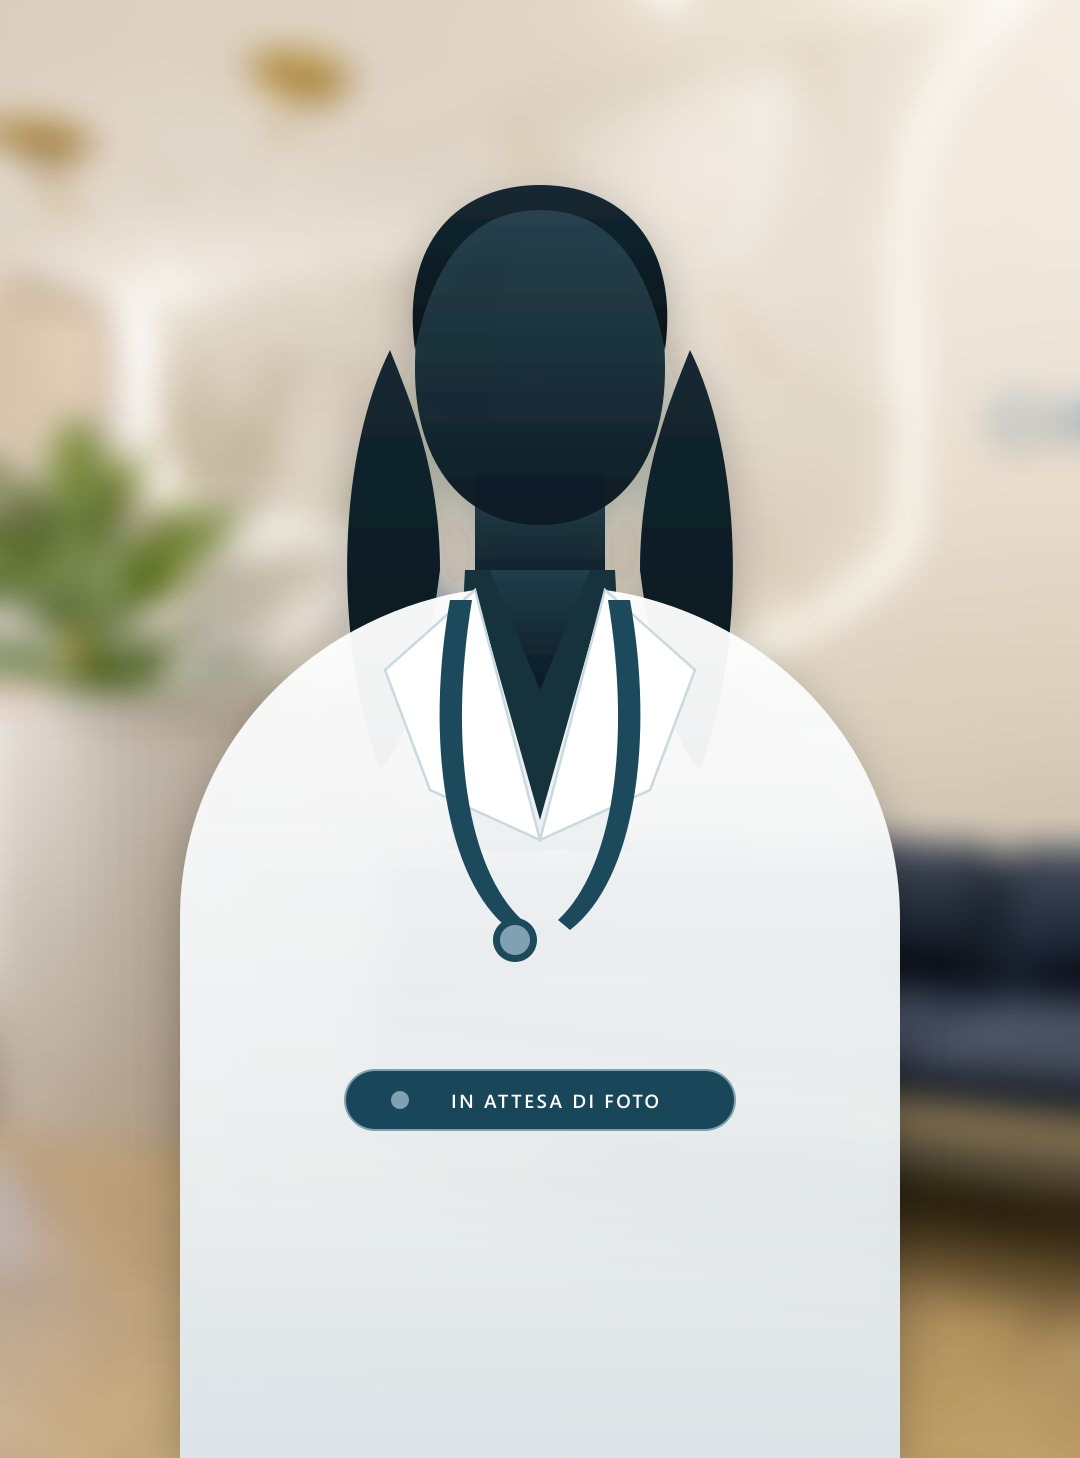
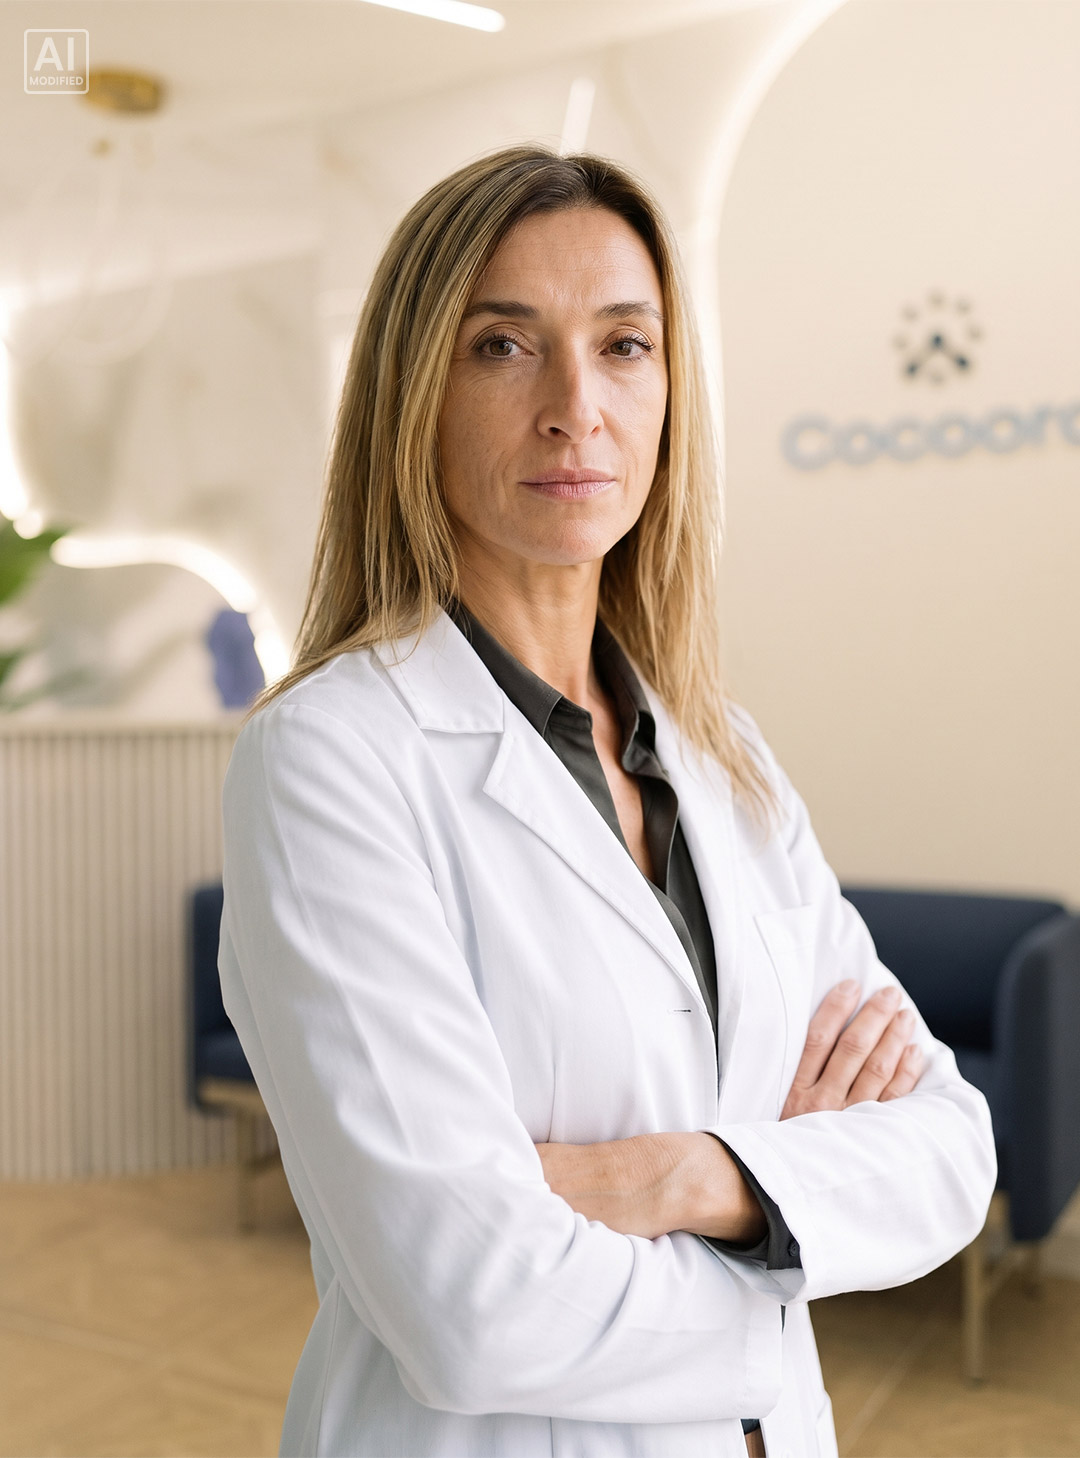
feat: allineamento anagrafica medici file Simone, inserimento dermatologa Mirella D'Andrea, correzione foto Totaro e reindirizzamento Prenota Visita a Discover

diff --git a/src/lib/doctors.ts b/src/lib/doctors.ts
@@ -3,18 +3,19 @@ import type { Doctor } from "./types";
 // ─────────────────────────────────────────────────────────────────────────
 // Database Specialisti Cocoora Centro Medico.
 // Organico ufficiale desunto dal calendario clinico (Novembre 2026).
+// Nomenclatura ufficiale: nomi senza prefissi Dr./Dott.ssa e titoli per esteso.
 // ─────────────────────────────────────────────────────────────────────────
 
 export const DOCTORS: Doctor[] = [
   {
     slug: "elisa-russo",
-    name: "Dott.ssa Elisa Russo",
-    title: "Direttrice Sanitaria · Specialista in Ortognatodonzia e Odontoiatria Pediatrica",
+    name: "Elisa Russo",
+    title: "Odontoiatra, Specialista in Ortognatodonzia · Direttrice Sanitaria",
     branca: "Odontoiatria & Ortodonzia Digitale",
     affiliation: "Direttrice Sanitaria — Cocoora Centro Medico",
     badge: "Direzione Sanitaria",
     image: "/images/doctors/elisa-russo.jpg",
-    bio: "La Dott.ssa Elisa Russo guida la direzione sanitaria del centro con una visione incentrata sulla prevenzione precoce, sull'ortodonzia digitale con allineatori trasparenti e sul benessere odontoiatrico completo di adulti e bambini.",
+    bio: "Elisa Russo guida la direzione sanitaria del centro con una visione incentrata sulla prevenzione precoce, sull'ortodonzia digitale con allineatori trasparenti e sul benessere odontoiatrico completo di adulti e bambini.",
     approach:
       "La salute del cavo orale è il primo presidio di salute sistemica: pianifichiamo ogni percorso con diagnosi digitale 3D, garantendo trattamenti confortevoli, predicibili e senza sorprese.",
     curriculum: [
@@ -41,12 +42,12 @@ export const DOCTORS: Doctor[] = [
   },
   {
     slug: "raffaele-dalessio",
-    name: "Dr. Raffaele D'Alessio",
-    title: "Chirurgo Orale e Implantologo",
+    name: "Raffaele D'Alessio",
+    title: "Odontoiatria, Chirurgia e Implantologia",
     branca: "Odontoiatria & Ortodonzia Digitale",
     affiliation: "Specialista in Chirurgia Orale e Implantologia Guidata",
     image: "/images/doctors/raffaele-dalessio.jpg",
-    bio: "Il Dr. D'Alessio è chirurgo orale dedicato alla riabilitazione complessa, all'implantologia computer-guidata a carico immediato e alla chirurgia ossea piezoelettrica mininvasiva.",
+    bio: "Raffaele D'Alessio è chirurgo orale dedicato alla riabilitazione complessa, all'implantologia computer-guidata a carico immediato e alla chirurgia ossea piezoelettrica mininvasiva.",
     approach:
       "Precisione millimetrica e massimo comfort: la chirurgia guidata 3D permette di ripristinare funzionalità ed estetica con tempi di guarigione minimi.",
     curriculum: [
@@ -65,12 +66,12 @@ export const DOCTORS: Doctor[] = [
   },
   {
     slug: "alessandra-riccardi",
-    name: "Dott.ssa Alessandra Riccardi",
-    title: "Medico Estetico e Rigenerativo",
+    name: "Alessandra Riccardi",
+    title: "Medico Chirurgo – Medicina Estetica",
     branca: "Medicina Estetica Avanzata",
     affiliation: "Specialista in Medicina Rigenerativa e Trattamenti Laser",
     image: "/images/doctors/alessandra-riccardi.jpg",
-    bio: "La Dott.ssa Alessandra Riccardi unisce la medicina estetica alla biostimolazione rigenerativa, focalizzandosi su trattamenti viso e corpo che esaltano l'armonia naturale senza alterare l'espressività.",
+    bio: "Alessandra Riccardi unisce la medicina estetica alla biostimolazione rigenerativa, focalizzandosi su trattamenti viso e corpo che esaltano l'armonia naturale senza alterare l'espressività.",
     approach:
       "La medicina estetica d'eccellenza non stravolge: rigenera la qualità biologica dei tessuti con tecnologie laser all'avanguardia e protocolli su misura.",
     curriculum: [
@@ -94,12 +95,12 @@ export const DOCTORS: Doctor[] = [
   },
   {
     slug: "titti-errico",
-    name: "Dott.ssa Titti Errico",
-    title: "Specialista in Chirurgia Plastica, Ricostruttiva ed Estetica",
+    name: "Concetta Errico",
+    title: "Medico Chirurgo e Specialista in Chirurgia Plastica e Ricostruttiva",
     branca: "Medicina Estetica Avanzata",
     affiliation: "Specialista in Chirurgia Estetica e Protocolli Rigenerativi",
     image: "/images/doctors/titti-errico.jpg",
-    bio: "La Dott.ssa Titti Errico opera in sinergia con il Prof. D'Andrea, dedicandosi alla medicina estetica avanzata, alla chirurgia ambulatoriale mininvasiva e al ringiovanimento cutaneo profondo.",
+    bio: "Concetta Errico si dedica alla medicina estetica avanzata, alla chirurgia ambulatoriale mininvasiva e al ringiovanimento cutaneo profondo con approccio sartoriale.",
     approach:
       "Ogni persona ha un'armonia propria: definiamo interventi personalizzati che valorizzano la bellezza autentica nel rispetto della fisionomia.",
     curriculum: [
@@ -142,12 +143,12 @@ export const DOCTORS: Doctor[] = [
   },
   {
     slug: "anna-maria-stillo",
-    name: "Dott.ssa Anna Maria Stillo",
-    title: "Specialista in Cardiologia ed Ecografia Cardiaca",
+    name: "Anna Maria Stillo",
+    title: "Medico Chirurgo Specialista in Malattie dell’Apparato Cardiovascolare",
     branca: "Cardiologia & Diagnostica Vascolare",
     affiliation: "Specialista in Cardiologia Clinica ed Imaging Cardiovascolare",
     image: "/images/doctors/anna-maria-stillo.jpg",
-    bio: "La Dott.ssa Anna Maria Stillo è cardiologa dedicata alla prevenzione cardiovascolare primaria e secondaria, all'elettrocardiografia ad alta definizione e all'ecocardiografia color-Doppler.",
+    bio: "Anna Maria Stillo è cardiologa dedicata alla prevenzione cardiovascolare primaria e secondaria, all'elettrocardiografia ad alta definizione e all'ecocardiografia color-Doppler.",
     approach:
       "La tutela del cuore richiede ascolto clinico meticoloso e diagnostica per immagini puntuale, prima ancora che insorgano sintomi clinici conclamati.",
     curriculum: [
@@ -167,12 +168,12 @@ export const DOCTORS: Doctor[] = [
   },
   {
     slug: "giuseppe-buono",
-    name: "Dr. Giuseppe Buono",
-    title: "Specialista in Diagnostica per Immagini ed Ecografia Clinica",
+    name: "Giuseppe Buono",
+    title: "Medico Chirurgo Specialista in Radiodiagnostica",
     branca: "Diagnostica Ecografica",
     affiliation: "Specialista in Radiodiagnostica ed Ecografia Internistica",
     image: "/images/doctors/giuseppe-buono.jpg",
-    bio: "Il Dr. Giuseppe Buono gestisce il servizio di diagnostica ecografica con ecografo digitale di ultima generazione, assicurando refertazione accurata e tempi rapidi per tutte le indagini internistiche.",
+    bio: "Giuseppe Buono gestisce il servizio di diagnostica ecografica con ecografo digitale di ultima generazione, assicurando refertazione accurata e tempi rapidi per tutte le indagini internistiche.",
     approach:
       "Un'ecografia ad alta definizione costituisce la base oggettiva per orientare le scelte terapeutiche di tutte le specialità del centro.",
     curriculum: [
@@ -192,12 +193,12 @@ export const DOCTORS: Doctor[] = [
   },
   {
     slug: "mario-toro",
-    name: "Dr. Mario Toro",
-    title: "Specialista in Oculistica e Chirurgia Refrattiva",
+    name: "Mario Toro",
+    title: "Medico Chirurgo Specialista in Oftalmologia e Chirurgia Vitreo-Retinica",
     branca: "Oculistica & Salute della Vista",
     affiliation: "Specialista in Oftalmologia e Diagnostica Oculare",
     image: "/images/doctors/mario-toro.jpg",
-    bio: "Il Dr. Mario Toro si occupa della salute della vista e della prevenzione oftalmologica, dalla misurazione della pressione intraoculare all'esame del fondo oculare e biomicroscopia del segmento anteriore.",
+    bio: "Mario Toro si occupa della salute della vista e della prevenzione oftalmologica, dalla misurazione della pressione intraoculare all'esame del fondo oculare e biomicroscopia del segmento anteriore.",
     approach:
       "La vista è il senso primario attraverso cui percepiamo il mondo: controlli periodici accurati preservano la qualità visiva a ogni età.",
     curriculum: [
@@ -217,12 +218,12 @@ export const DOCTORS: Doctor[] = [
   },
   {
     slug: "raffaella-poppiti",
-    name: "Dott.ssa Raffaella Poppiti",
-    title: "Specialista in Ginecologia, Ostetricia ed Ecografia Pelvica",
+    name: "Raffaella Poppiti",
+    title: "Medico Chirurgo Specialista in Ginecologia ed Ostetricia",
     branca: "Ginecologia & Benessere Donna",
     affiliation: "Specialista in Ginecologia Clinica e Prevenzione di Genere",
     image: "/images/doctors/raffaella-poppiti.jpg",
-    bio: "La Dott.ssa Raffaella Poppiti segue la salute femminile nelle diverse fasi della vita, dalla prevenzione adolescenziale e contraccettiva alla maternità e al benessere in menopausa.",
+    bio: "Raffaella Poppiti segue la salute femminile nelle diverse fasi della vita, dalla prevenzione adolescenziale e contraccettiva alla maternità e al benessere in menopausa.",
     approach:
       "Accoglienza, riservatezza e ascolto empatico per una prevenzione ginecologica serena, integrata con l'ecografia pelvica e transvaginale.",
     curriculum: [
@@ -242,12 +243,12 @@ export const DOCTORS: Doctor[] = [
   },
   {
     slug: "alessandra-totaro",
-    name: "Dott.ssa Alessandra Totaro",
-    title: "Psicologa Clinica e Psicoterapeuta",
+    name: "Alessandra Totaro",
+    title: "Psicologa, Psicoterapeuta",
     branca: "Psicologia & Benessere Integrato",
     affiliation: "Psicologa e Psicoterapeuta ad Orientamento Integrato",
     image: "/images/doctors/alessandra-totaro.jpg",
-    bio: "La Dott.ssa Alessandra Totaro offre percorsi di sostegno psicologico, gestione dell'ansia e dello stress e percorsi di consapevolezza emotiva integrati con la salute fisica.",
+    bio: "Alessandra Totaro offre percorsi di sostegno psicologico, gestione dell'ansia e dello stress e percorsi di consapevolezza emotiva integrati con la salute fisica.",
     approach:
       "Il corpo e la mente dialogano costantemente: la vera longevità e salute richiedono un equilibrio emotivo solido e armonioso.",
     curriculum: [
@@ -266,12 +267,12 @@ export const DOCTORS: Doctor[] = [
   },
   {
     slug: "jessica-de-ceglie",
-    name: "Dott.ssa Jessica De Ceglie",
-    title: "Biologa Nutrizionista Specialista in Educazione Alimentare",
+    name: "Jessica De Ceglie",
+    title: "Biologa, Nutrizionista",
     branca: "Nutrizione Clinica & Metabolismo",
     affiliation: "Biologa Nutrizionista Clinica",
     image: "/images/doctors/jessica-de-ceglie.jpg",
-    bio: "La Dott.ssa Jessica De Ceglie è dedicata alla nutrizione clinica e ai protocolli mirati per il metabolismo, il supporto all'attività fisica e la prevenzione infiammatoria.",
+    bio: "Jessica De Ceglie è dedicata alla nutrizione clinica e ai protocolli mirati per il metabolismo, il supporto all'attività fisica e la prevenzione infiammatoria.",
     approach:
       "Il cibo è medicina preventiva: la nutrizione mirata migliora energia, longevità e forma fisica in modo misurabile e costante.",
     curriculum: [
@@ -289,12 +290,12 @@ export const DOCTORS: Doctor[] = [
   },
   {
     slug: "martina-pontillo",
-    name: "Dott.ssa Martina Pontillo",
-    title: "Specialista in Senologia ed Ecografia Mammaria",
+    name: "Martina Pontillo",
+    title: "Medico Chirurgo – Senologia e Chirurgia Senologica",
     branca: "Senologia & Prevenzione Donna",
     affiliation: "Specialista in Senologia Diagnostica",
     image: "/images/doctors/martina-pontillo.jpg",
-    bio: "La Dott.ssa Martina Pontillo si dedica alla prevenzione senologica con visita clinica accurata ed ecografia mammaria ad alta risoluzione (si ricorda che la mammografia non è eseguita in sede).",
+    bio: "Martina Pontillo si dedica alla prevenzione senologica con visita clinica accurata ed ecografia mammaria ad alta risoluzione (si ricorda che la mammografia non è eseguita in sede).",
     approach:
       "La prevenzione senologica regolare è il dono più prezioso che ogni donna possa fare a se stessa, affrontata con serenità e competenza specialistica.",
     curriculum: [
@@ -312,13 +313,38 @@ export const DOCTORS: Doctor[] = [
     tariffaVisita: 0,
   },
   {
+    slug: "mirella-dandrea",
+    name: "Mirella D'Andrea",
+    title: "Medico Chirurgo, Specialista in Dermatologia e Venerologia",
+    branca: "Dermatologia & Salute della Pelle",
+    affiliation: "Specialista in Dermatologia e Venereologia",
+    image: "/images/doctors/mirella-dandrea.jpg",
+    bio: "Mirella D'Andrea è medico chirurgo specialista in dermatologia e venereologia. Si dedica alla diagnosi e cura delle affezioni cutanee, al controllo dei nei e al benessere di pelle, unghie e capelli.",
+    approach:
+      "La salute della pelle è fondamentale per il benessere complessivo: un approccio clinico scrupoloso e preventivo permette di intercettare precocemente ogni alterazione.",
+    curriculum: [
+      "Laurea in Medicina e Chirurgia",
+      "Specializzazione in Dermatologia e Venereologia",
+      "Perfezionamento in Dermatoscopia clinica e controllo nei",
+    ],
+    servizi: [
+      "Visita dermatologica specialistica",
+      "Dermatoscopia per il controllo dei nei",
+      "Trattamento di dermatiti, affezioni cutanee e acne",
+      "Valutazione della salute di capelli e unghie",
+    ],
+    specialtyId: "dermatologia",
+    clubTierIds: ["experience", "signature"],
+    tariffaVisita: 0,
+  },
+  {
     slug: "vittorio-riccio",
-    name: "Dr. Vittorio Riccio",
-    title: "Specialista in Oncologia Medica e Prevenzione",
+    name: "Vittorio Riccio",
+    title: "Medico Chirurgo – Oncologia Medica",
     branca: "Oncologia & Prevenzione Clinica",
     affiliation: "Specialista in Oncologia Medica",
     image: "/images/doctors/vittorio-riccio.jpg",
-    bio: "Il Dr. Vittorio Riccio si occupa di prevenzione oncologica primaria, consulenze specialistiche per la valutazione dei fattori di rischio e percorsi di follow-up.",
+    bio: "Vittorio Riccio si occupa di prevenzione oncologica primaria, consulenze specialistiche per la valutazione dei fattori di rischio e percorsi di follow-up.",
     approach:
       "Prevenire significa conoscere i propri fattori biologici e intervenire tempestivamente con percorsi diagnostici appropriati.",
     curriculum: [
@@ -337,12 +363,12 @@ export const DOCTORS: Doctor[] = [
   },
   {
     slug: "guido-ciorra",
-    name: "Dr. Guido Ciorra",
-    title: "Specialista in Chirurgia Generale e Ambulatoriale Mininvasiva",
+    name: "Guido Ciorra",
+    title: "Medico Chirurgo Specialista in Chirurgia Generale",
     branca: "Chirurgia Generale & Ambulatoriale",
     affiliation: "Specialista in Chirurgia Generale e Mininvasiva",
     image: "/images/doctors/guido-ciorra.jpg",
-    bio: "Il Dr. Guido Ciorra è chirurgo dedicato alla diagnostica e al trattamento ambulatoriale delle patologie di interesse chirurgico generale, dermatologico e dei tessuti molli.",
+    bio: "Guido Ciorra è chirurgo dedicato alla diagnostica e al trattamento ambulatoriale delle patologie di interesse chirurgico generale, dermatologico e dei tessuti molli.",
     approach:
       "La chirurgia ambulatoriale moderna unisce rigore tecnico e mininvasività per risolvere problematiche cliniche in sicurezza e senza degenza.",
     curriculum: [
@@ -361,12 +387,12 @@ export const DOCTORS: Doctor[] = [
   },
   {
     slug: "rocco-spera",
-    name: "Dr. Rocco Spera",
-    title: "Specialista in Medicina dello Sport e Valutazione Funzionale",
+    name: "Rocco Spera",
+    title: "Medico Chirurgo Specialista in Medicina dello Sport",
     branca: "Medicina dello Sport & Valutazione Funzionale",
     affiliation: "Specialista in Medicina dello Sport",
     image: "/images/doctors/rocco-spera.jpg",
-    bio: "Il Dr. Rocco Spera effettua valutazioni clinico-funzionali per sportivi agonisti e amatori, promuovendo l'attività fisica come strumento insostituibile di prevenzione e longevità.",
+    bio: "Rocco Spera effettua valutazioni clinico-funzionali per sportivi agonisti e amatori, promuovendo l'attività fisica come strumento insostituibile di prevenzione e longevità.",
     approach:
       "Lo sport praticato in sicurezza è la prima terapia per il sistema cardiovascolare e metabolico: valutiamo con rigore l'idoneità fisica.",
     curriculum: [
@@ -385,12 +411,12 @@ export const DOCTORS: Doctor[] = [
   },
   {
     slug: "filippo-iaccarino",
-    name: "Dr. Filippo Iaccarino",
-    title: "Specialista in Pediatria e Cura dell'Accrescimento",
+    name: "Filippo Iaccarino",
+    title: "Medico Chirurgo Specialista in Pediatria e Neonatologia",
     branca: "Pediatria & Cura della Crescita",
     affiliation: "Specialista in Pediatria Clinica e Cure Pediatriche",
     image: "/images/doctors/filippo-iaccarino.jpg",
-    bio: "Il Dr. Filippo Iaccarino accoglie le famiglie e i piccoli pazienti con disponibilità ed empatia, seguendo i bilanci di salute e le tappe fondamentali dello sviluppo pediatrico.",
+    bio: "Filippo Iaccarino accoglie le famiglie e i piccoli pazienti con disponibilità ed empatia, seguendo i bilanci di salute e le tappe fondamentali dello sviluppo pediatrico.",
     approach:
       "Ogni bambino merita un ambiente rilassante e rassicurante: la visita pediatrica deve essere un'esperienza positiva sia per il bambino sia per i genitori.",
     curriculum: [

diff --git a/src/app/medici/[slug]/doctor-client.tsx b/src/app/medici/[slug]/doctor-client.tsx
@@ -81,7 +81,7 @@ export function DoctorClient({ doctor }: { doctor: Doctor }) {
                 <Button size="lg" onClick={handlePrimaryCta}>
                   Scopri i Percorsi Salute <ArrowRight className="h-4 w-4" />
                 </Button>
-                <ButtonLink href="/contatti" variant="secondary" size="lg">
+                <ButtonLink href="/club/discover" variant="secondary" size="lg">
                   Prenota Visita su Appuntamento
                 </ButtonLink>
               </div>
@@ -185,7 +185,7 @@ export function DoctorClient({ doctor }: { doctor: Doctor }) {
               <Button size="lg" onClick={handlePrimaryCta}>
                 Scopri i Percorsi Salute <ArrowRight className="h-4 w-4" />
               </Button>
-              <ButtonLink href="/contatti" variant="secondary" size="lg">
+              <ButtonLink href="/club/discover" variant="secondary" size="lg">
                 Prenota Visita su Appuntamento
               </ButtonLink>
             </div>

diff --git a/src/lib/club-details.ts b/src/lib/club-details.ts
@@ -7,7 +7,7 @@ import type { ClubExamItem, ClubTierDetail } from "./types";
 
 const CORE_DOCTORS = ["elisa-russo", "alessandra-riccardi", "anna-maria-stillo", "jessica-de-ceglie"];
 const CARE_DOCTORS = [...CORE_DOCTORS, "mario-toro", "martina-pontillo", "raffaella-poppiti"];
-const EXPERIENCE_DOCTORS = [...CARE_DOCTORS, "giuseppe-buono", "titti-errico", "patty-scorzelli"];
+const EXPERIENCE_DOCTORS = [...CARE_DOCTORS, "giuseppe-buono", "titti-errico", "patty-scorzelli", "mirella-dandrea"];
 
 export const CLUB_TIER_DETAILS: ClubTierDetail[] = [
   {

diff --git a/src/app/page.tsx b/src/app/page.tsx
@@ -384,7 +384,7 @@ export default function HomePage() {
                 <Button onClick={openDiscover} variant="white" size="lg">
                   Inizia gratis <ArrowRight className="h-4 w-4" />
                 </Button>
-                <ButtonLink href="/contatti" variant="outline-dark" size="lg">
+                <ButtonLink href="/club/discover" variant="outline-dark" size="lg">
                   Prenota Visita
                 </ButtonLink>
               </div>

diff --git a/src/components/hero-carousel.tsx b/src/components/hero-carousel.tsx
@@ -148,7 +148,7 @@ export function HeroCarousel({
             <Button size="lg" onClick={openDiscover} variant="white">
               Inizia gratis con il Club <Plus className="h-4 w-4" />
             </Button>
-            <ButtonLink href="/contatti" variant="outline-dark" size="lg">
+            <ButtonLink href="/club/discover" variant="outline-dark" size="lg">
               Prenota Visita
             </ButtonLink>
           </div>

diff --git a/src/app/servizi/diagnostica/page.tsx b/src/app/servizi/diagnostica/page.tsx
@@ -196,7 +196,7 @@ export default function DiagnosticaPage() {
                 <Button size="lg" onClick={openDiscover}>
                   Inizia gratis
                 </Button>
-                <ButtonLink href="/contatti" variant="outline-dark" size="lg">
+                <ButtonLink href="/club/discover" variant="outline-dark" size="lg">
                   Prenota Visita
                 </ButtonLink>
               </div>
